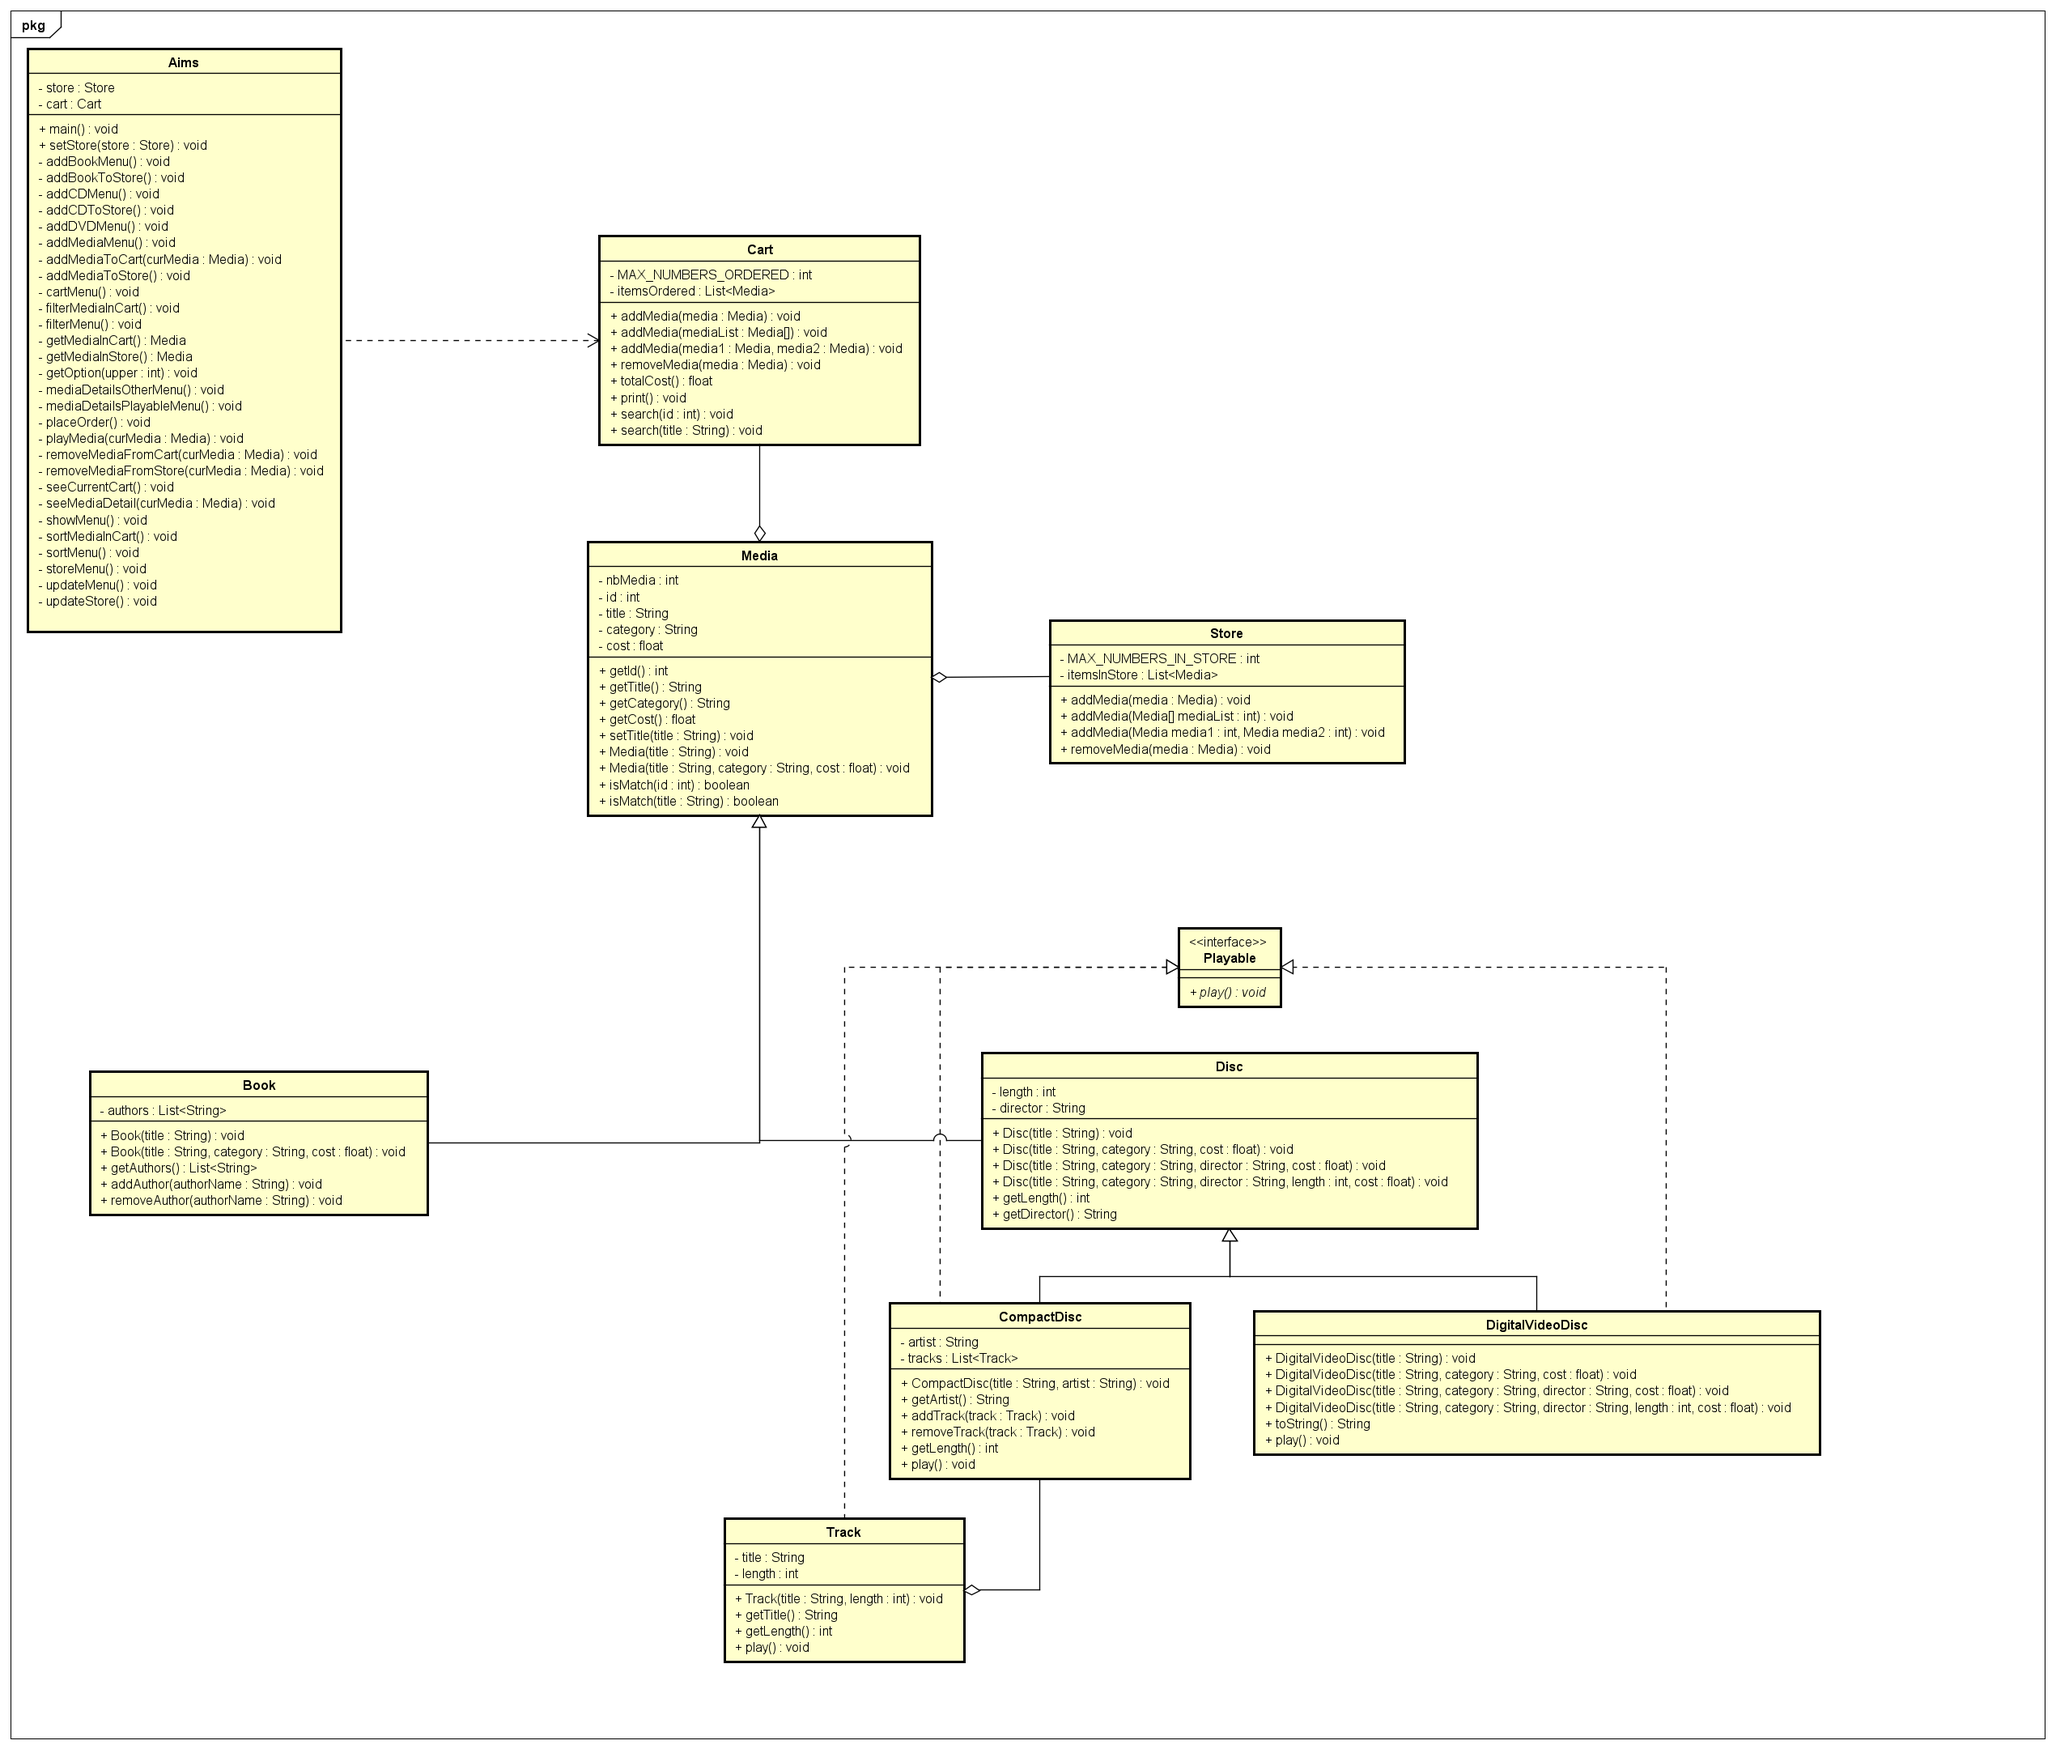
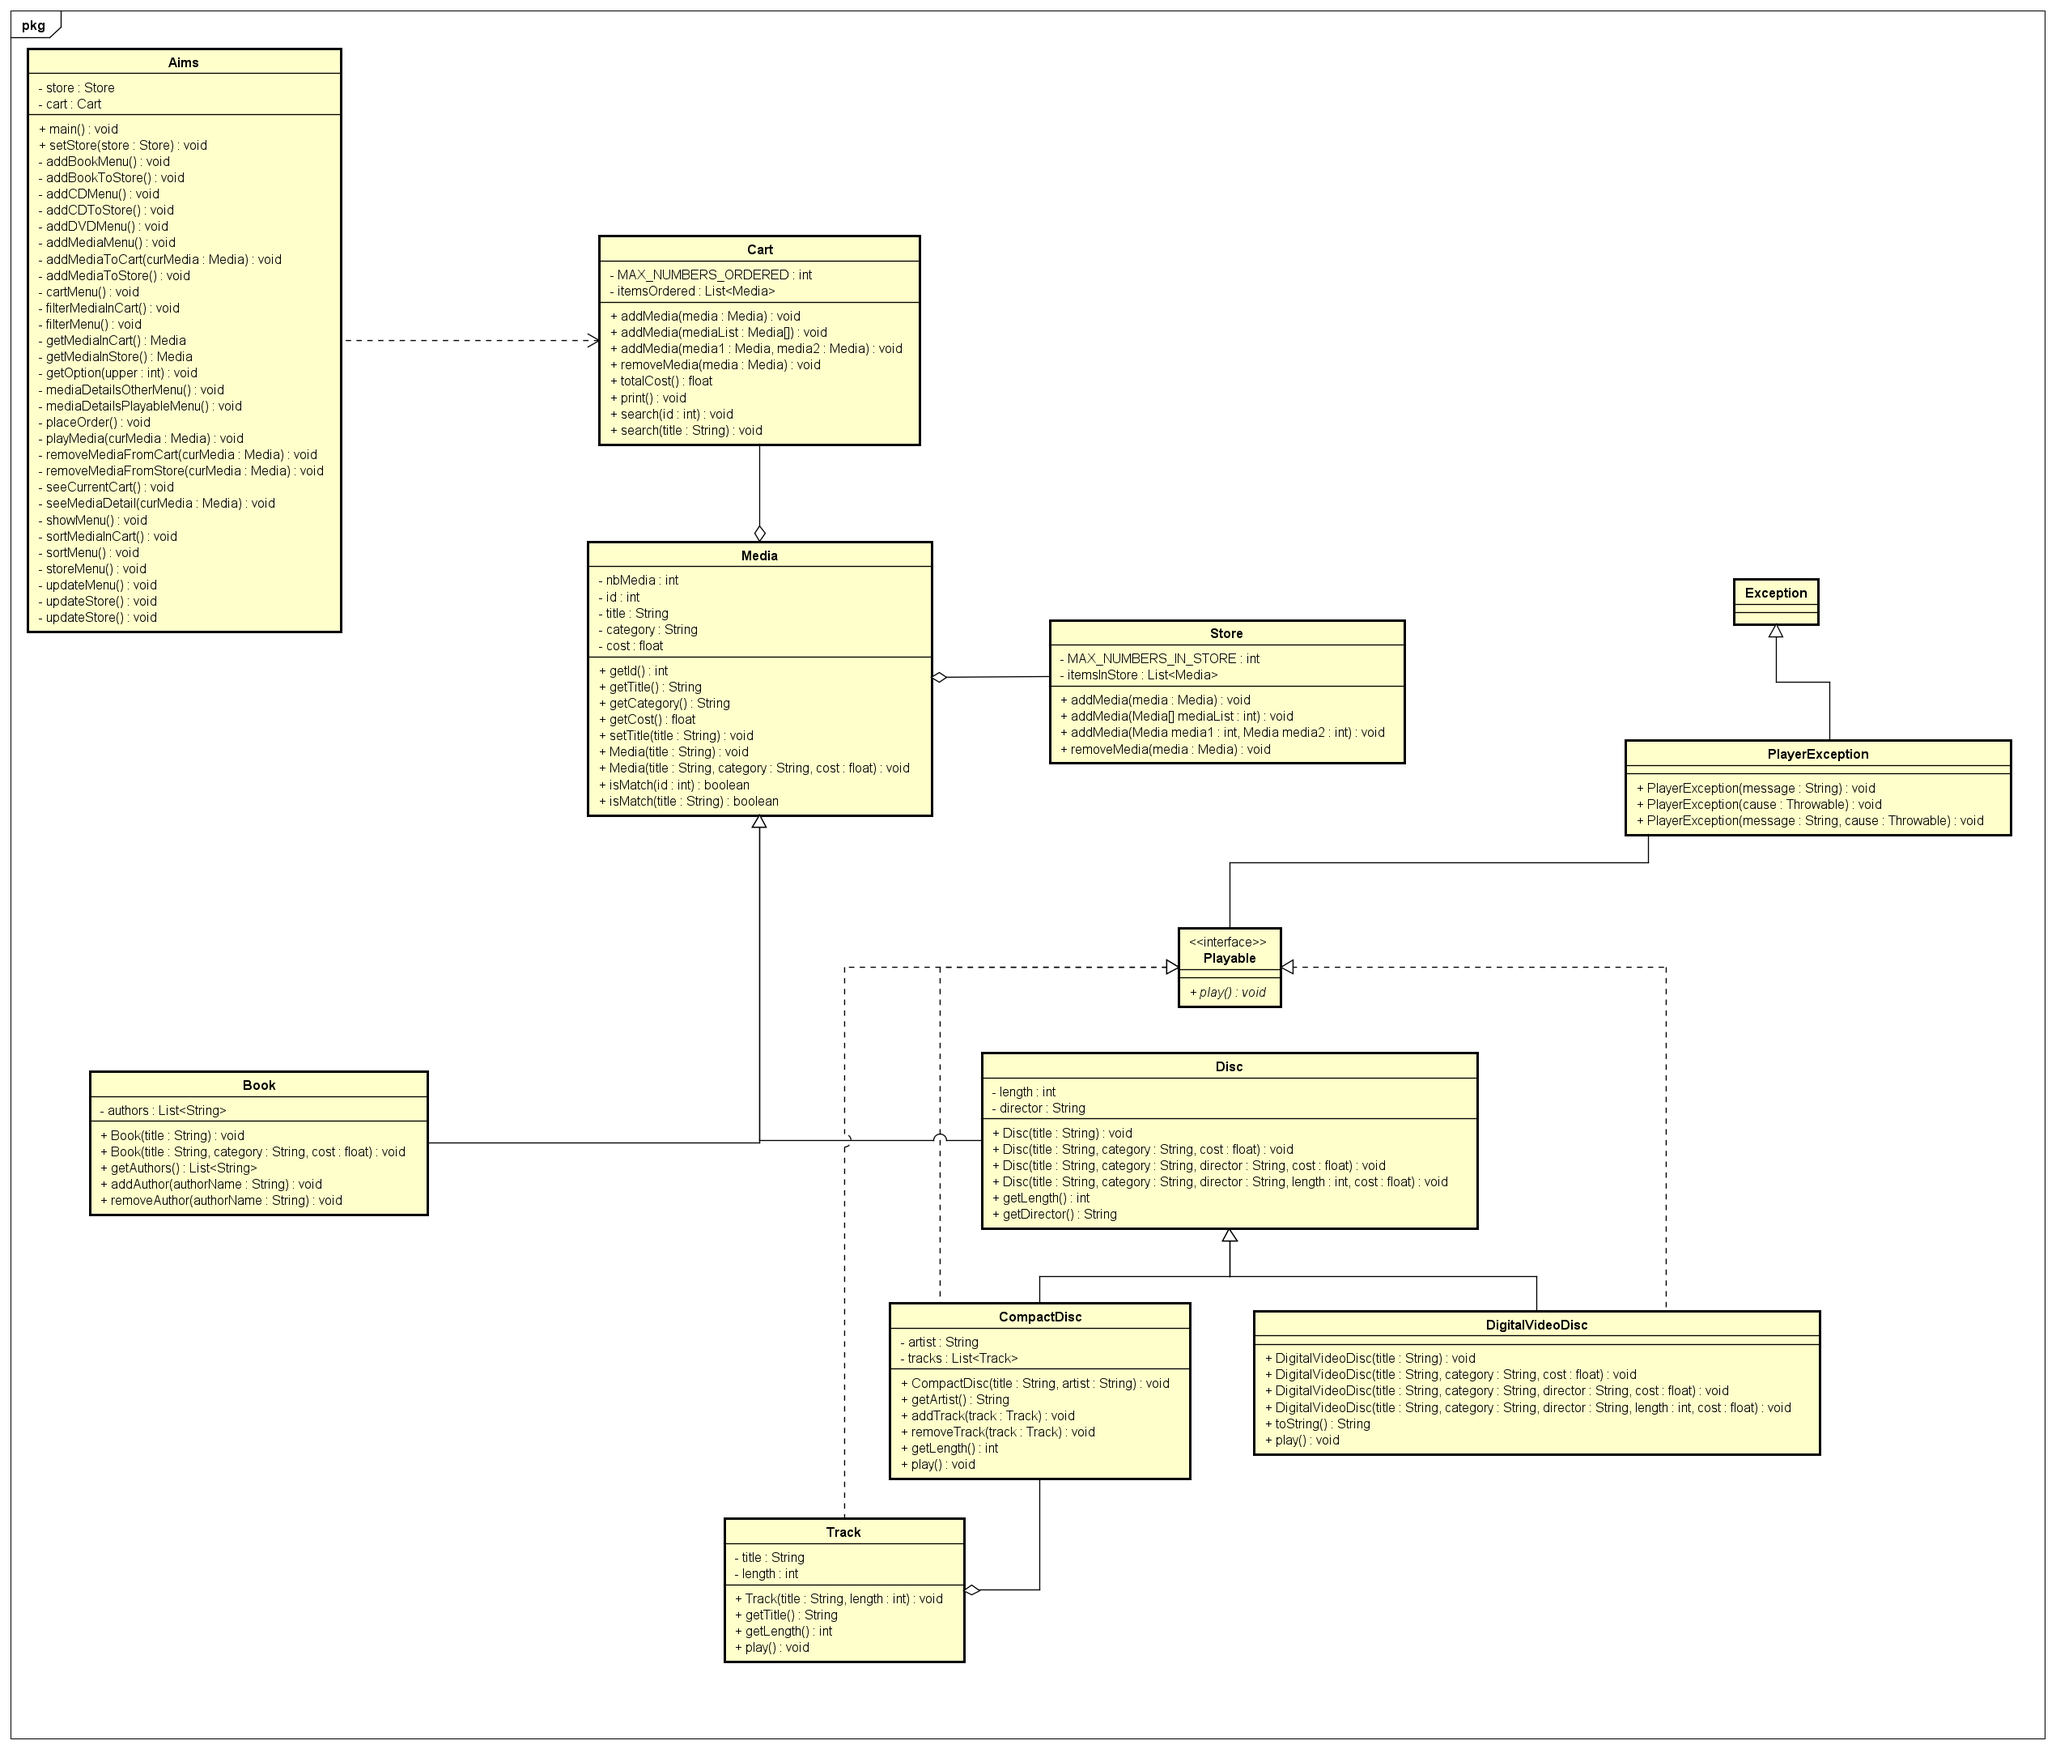
Done

Changed region(s): [[0.7776, 0.4032, 0.9953, 0.4963], [0.8398, 0.3102, 0.902, 0.3722]]

diff --git a/Lab5/AimsProject/src/hust/soict/dsai/test/media/MediaTest.java b/Lab5/AimsProject/src/hust/soict/dsai/test/media/MediaTest.java
@@ -1,5 +1,6 @@
 package hust.soict.dsai.test.media;
 
+import hust.soict.dsai.aims.exception.PlayerException;
 import hust.soict.dsai.aims.media.*;
 import java.util.*;
 
@@ -22,7 +23,12 @@ public class MediaTest {
 		
 		System.out.println(disc.getLength());
 		
-		disc.play();
+		try {
+			disc.play();
+		} catch (PlayerException e) {
+			// TODO Auto-generated catch block
+			e.printStackTrace();
+		}
 	}
 	
 	public static void BookTest() {
